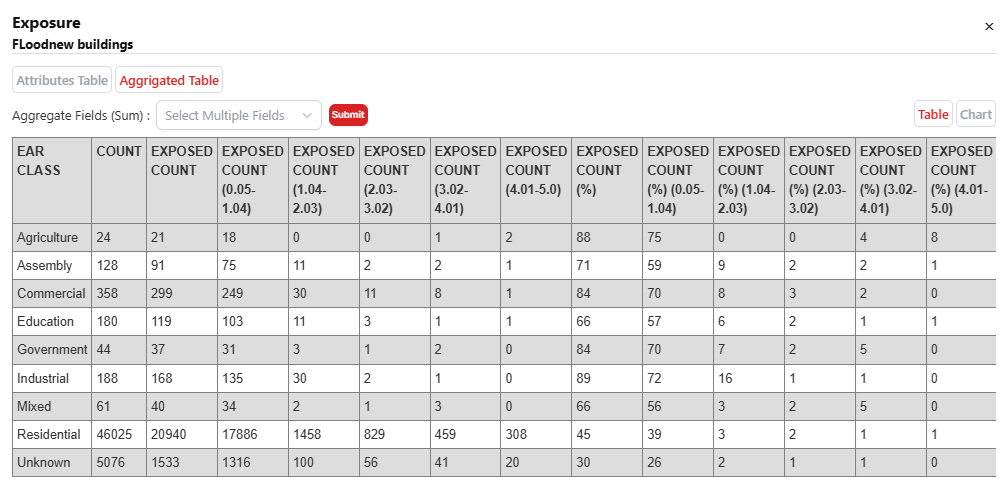
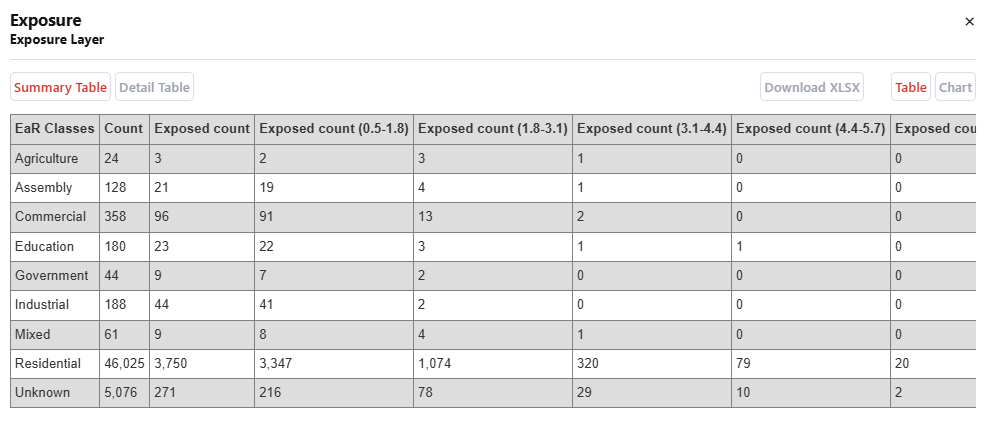
update userguide pages

diff --git a/docs/source/userguide_inputdata.rst b/docs/source/userguide_inputdata.rst
@@ -61,9 +61,13 @@ Click the name and three options will be shown which are Update profile, Change 
 
 Create a Project
 ^^^^^^^^^^^^^^^^^^^
-The Project Dashboard consists of the list of projects that the users have created or have been assigned to. Aside from that, in this dashboard users can also flter and search a specific project by name, study type, hazard type, or sorting the project.
+The Project Dashboard consists of the list of projects that the users have created or have been assigned to. Aside from that, in this dashboard users can also filter and search a specific project by name, hazard type, implemented country, or sorting the project.
 
-To create a project, click |New Project| to be redirected to the Add New Project page. There are four pages to be filled related to the project, which are |General|, |Staff|, |Alternatives|, and |Scenarios|. Ony the |General| page is compulsory to be filled in order to create a project. In the |General| page, users need to enter related details about the project. The |Staff| page allows users to invite and assign the team members in the associated project.
+To create a project, click |New Project| to be redirected to the Add New Project page. There are four pages to be filled related to the project, which are |General|, |Staff|, |Alternatives|, and |Scenarios|. Ony the |General| page is compulsory to be filled in order to create a project. 
+
+In the |General| page, users need to enter related details about the project. This includes **Project Name**, **Study Area**, **Description**, **Project Image**, and **Project Documents**.
+
+The |Staff| page allows users to invite and assign the team members in the associated project. However, the Staff page can be filled after creating a project through the Project Settings. The |Alternatives| and |Scenarios| pages are optional to be filled. The sections for Alternatives and Scenarios are explained separately.
 
 .. |New Project| image:: /images/tutorials_inputdata/new_project.png
            :scale: 65% 
@@ -86,7 +90,14 @@ To create a project, click |New Project| to be redirected to the Add New Project
 
    *Create a New Project*
 
-The project that are created or assigned to the user are displayed as cards in the Project Dashboard and can be filtered easily through the filter functions.
+.. figure:: /images/tutorials_inputdata/staff_input.png
+   :width: 100%
+   :align: center
+
+   *Add Staff Members*
+
+The project that are created or assigned to the user are displayed as cards in the Project Dashboard and can be filtered easily through the filter functions. Additionally, users can view the projects as map as well. The projects are also grouped into four categories which are **Your Private Projects**, **Your Public Projects**, **Demo Projects**, and **Community Public Projects**. 
+
 
 .. figure:: /images/tutorials_inputdata/project_dashboard.png
    :width: 100%
@@ -181,7 +192,9 @@ Upload Vulnerability Data
 ^^^^^^^^^^^^^^^^^^^^^^^^^^^^
 Go to Vulnerability and click Add Vulnerability.
 
-Users can upload a CSV file under the General section to add a record automatically or input the values directly under the Data section. The uploaded CSV file needs to have information of Hazard Intensity From, Hazard Intensity To, and Vulnerability Data. After uploading, this information will be stored under the Data section as well.
+Users can upload a CSV file under the General section to add a record automatically or input the values directly under the Data section.
+
+The uploaded CSV file needs to have information of Hazard Intensity From, Hazard Intensity To, and Vulnerability Data. After uploading, this information will be stored under the Data section as well. There are two format types for the CSV file and both are availabe at the bottom of the **Add Vulnerability** form. Users may download those template files and use it accordingly as input.
 
 Before uploading the record, users need to fill out some details regarding the data which are the Vulnerability Region, Vulnerability Type, Hazard Type, Hazard Subtype, Hazard Intensity Mode, Hazard Intensity, Hazard Intensity Unit, EaR Type, EaR Subtype, EaR Class, Source, Description, and Is Public. The Is Public column defines whether the Vulnerability record will be available to all users of RiskChanges or whether it will be kept under the user's personal project.
 

diff --git a/docs/source/userguide_cba.rst b/docs/source/userguide_cba.rst
@@ -80,6 +80,12 @@ Instructions
    - Complete the calculation.
    - Once the calculation is finished, the CBA results will be available for review.
 
+.. figure:: /images/tutorials_lossandscenario/cbainput.png
+   :width: 100%
+   :align: center
+
+   *CBA Calculation Settings*
+
 CBA Calculation
 ^^^^^^^^^^^^^^^
 
@@ -121,7 +127,13 @@ It allows users to observe:
 - Net benefits.
 - Discounted values.
 
-The Detail Table can be used to understand how the costs and benefits develop over time.
+The Detail Table can be used to understand how the costs and benefits develop over time. For individual administrative units, the Detail Table provides a separate set of calculations for each unit.
+
+.. figure:: /images/tutorials_lossandscenario/cbadetailtable.png
+   :width: 100%
+   :align: center
+
+   *CBA Detail Table*
 
 Summary Table
 ~~~~~~~~~~~~
@@ -138,6 +150,14 @@ Key indicators include:
 - **BCR:** Benefit-Cost Ratio.
 - **IRR:** Internal Rate of Return.
 - **Payback Period:** time required to recover the initial investment through accumulated benefits.
+
+The summarize information depends on the selected administrative regions. For entire region, the summary table provides a single set of indicators. For individual administrative units, the summary table provides a set of indicators for each unit.
+
+.. figure:: /images/tutorials_lossandscenario/cbasummarytable.png
+   :width: 100%
+   :align: center
+
+   *CBA Summary Table*
 
 CBA Result Observation
 ^^^^^^^^^^^^^^^^^^^^^^
@@ -162,7 +182,7 @@ When comparing multiple alternatives, users should consider both **economic perf
 Comparing Alternatives
 ^^^^^^^^^^^^^^^^^^^^^^
 
-RiskChanges can be used to compare multiple CBA alternatives.
+RiskChanges can be used to compare multiple CBA alternatives. Users can select multiple CBA calculation results and compare them from the **Compare** button.
 
 Users can compare alternatives based on:
 
@@ -175,3 +195,17 @@ Users can compare alternatives based on:
 - Overall risk reduction.
 
 This comparison supports evidence-based decision-making when selecting risk reduction and climate adaptation measures.
+
+.. figure:: /images/tutorials_lossandscenario/cbacompare.png
+   :width: 100%
+   :align: center
+
+   *CBA Comparison using Table and Chart*
+
+This would be the ideal use of the Compare function to display different CBA results side by side, allowing users to evaluate the economic performance of multiple interventions and make informed decisions.
+
+.. figure:: /images/tutorials_lossandscenario/cbamapcompare.png
+   :width: 100%
+   :align: center
+
+   *CBA Comparison using Map View*

diff --git a/docs/source/userguide_lossandscenario.rst b/docs/source/userguide_lossandscenario.rst
@@ -31,6 +31,7 @@ The Loss module computes the **economic or physical losses** resulting from haza
 2. **Choose Calculation Type**
 
    As in the Exposure module, you can choose:
+
    - **Individual**: Calculate loss per feature.
    - **Aggregated**: Calculate loss based on administrative units.
 
@@ -51,12 +52,13 @@ The Loss module computes the **economic or physical losses** resulting from haza
 
    After assigning all classes, click **Save**.
 
-1. **View Results**
+5. **View Results**
 
    Once calculated:
    
    - A **Loss Layer** will be displayed on the map.
-   - The results table will show extended details, including:
+   - The results table will show extended details, including (depending on the available columns of the uploaded layer):
+
      - Damage Ratio
      - Loss Fraction
      - Loss Area or Length
@@ -91,6 +93,7 @@ Create Scenario
 ^^^^^^^^^^^^^^^^^^
 
 The **Scenario Module** in RiskChanges allows you to simulate future changes that affect risk levels—such as:
+
 - **Climate change**
 - **Population growth**
 - **Land-use changes**
@@ -100,10 +103,12 @@ Scenarios are used to model **how risk evolves over time**.
 **Steps to Create a Scenario:**
 
 1. **Open Project Settings**
+
    - Go to the **Project Dashboard**.
    - Select your project and click **Settings** (gear icon).
 
 2. **Add a New Scenario**
+
    - Go to the **Scenarios** tab.
    - Click **Add Scenario**.
 
@@ -114,6 +119,7 @@ Scenarios are used to model **how risk evolves over time**.
    *Create a scenario*
 
 3. **Fill Scenario Details**
+
    - **Scenario Name**: Provide a meaningful name (e.g., "2050 Climate Change").
    - **Risk Component Affected**: Select which component changes (Hazard, EaR, Vulnerability).
    - **Description** (optional): Brief explanation of the scenario.
@@ -126,6 +132,7 @@ Scenarios are used to model **how risk evolves over time**.
    *Fill scenario details*
 
 4. **Save the Scenario**
+
    - The scenario will appear in the **Scenario Table**.
    - When uploading hazard or EaR layers, you can now assign this scenario to them.
 
@@ -135,6 +142,7 @@ Calculate Loss for Different Scenarios
 Once a scenario is created, you can calculate Exposure and Loss under that scenario by uploading the appropriate **Hazard** or **EaR** datasets marked with the scenario name.
 
 Repeat the steps from:
+
 - :ref:`Calculate Exposure <calculate-exposure>` for exposure calculation
 - :ref:`Loss Calculation <loss-calculation>` (this section) for loss calculation
 

diff --git a/docs/source/userguide_exposure.rst b/docs/source/userguide_exposure.rst
@@ -56,26 +56,24 @@ Results and Output
 The exposure calculation produces:
 
 * A spatial map layer showing the exposed features or areas.
-* A table dispplaying detailed exposure statistics, including:
+* A table dispplaying detailed exposure statistics, including (depending on the available columns of the uploaded layer):
 
    - Minimum, average, and maximum hazard intensity affecting each feature.
    - Exposed area, length, or fraction.
 
-Users can inspect and download this data or use it in further modules.
+Users can inspect and download this results or use it in further modules. The tables are available as a detail or summary table that provides an overview of the exposure results. This feature provides both table and chart views for better understanding, and exportable into XLSX format.
 
 .. figure:: /images/tutorials_exposure/resulttable.png
    :width: 100%
    :align: center
 
-   *Exposure calculation result in a table*
-
-There is also a feature summary table that provides an overview of the exposure results. This feature provides both table and chart views for better understanding.
+   *Exposure calculation result in a Detail Table*
 
 .. figure:: /images/tutorials_exposure/resultsummary.png
    :width: 100%
    :align: center
 
-   *Exposure calculation result summary*
+   *Exposure calculation result in a Summary Table*
 
 .. figure:: /images/tutorials_exposure/resultchart.png
    :width: 100%
@@ -94,7 +92,11 @@ Once exposure is calculated, the results appear on the **Map Panel** on the righ
 * Reset Map View
 * Full-screen Mode
 * Center on Current Location
-* Layer Options (for switching basemaps: OpenStreetMap or Satellite)
+* Basemap Options (for switching basemaps: OpenStreetMap or Satellite)
+* Compare Mode (map slider)
+* 3D View
+* Longitude-Latitude location search
+* Download Map
 
 .. figure:: /images/tutorials_exposure/mapdisplay.png
    :width: 100%

diff --git a/docs/source/userguide_risk.rst b/docs/source/userguide_risk.rst
@@ -49,6 +49,12 @@ Instructions
    - Click **Save** to start the Risk calculation.
    - Once the calculation is completed, the Risk results will be available for visualization and analysis.
 
+.. figure:: /images/tutorials_lossandscenario/riskcalculation.png
+   :width: 100%
+   :align: center
+
+   *Risk Calculation Settings*
+
 Results and Output
 ^^^^^^^^^^^^^^^^^
 
@@ -61,6 +67,14 @@ Key outputs may include:
 - **Summary statistics:** aggregated information describing the calculated Risk.
 
 The Risk results can be used as inputs for further analysis, including **Cost-Benefit Analysis (CBA)**.
+
+For Risk results, the output only consists of the Summary Table which includes the AAL and other relevant statistics. The results can be visualized on the map, table, chart, and exported for further analysis.
+
+.. figure:: /images/tutorials_lossandscenario/risktableandchart.png
+   :width: 100%
+   :align: center
+
+   *Risk Result as Table and Chart*
 
 Map Visualization
 ^^^^^^^^^^^^^^^^^
@@ -88,3 +102,9 @@ Risk results can be interpreted by:
 - **Comparing areas:** identify areas with relatively higher expected annual losses.
 - **Comparing scenarios:** compare Risk results generated under different hazard, exposure, or vulnerability conditions.
 - **Supporting mitigation decisions:** use Risk results to identify areas where risk reduction measures may provide the greatest benefit.
+
+.. figure:: /images/tutorials_lossandscenario/riskmap.png
+   :width: 100%
+   :align: center
+
+   *Risk Map*
